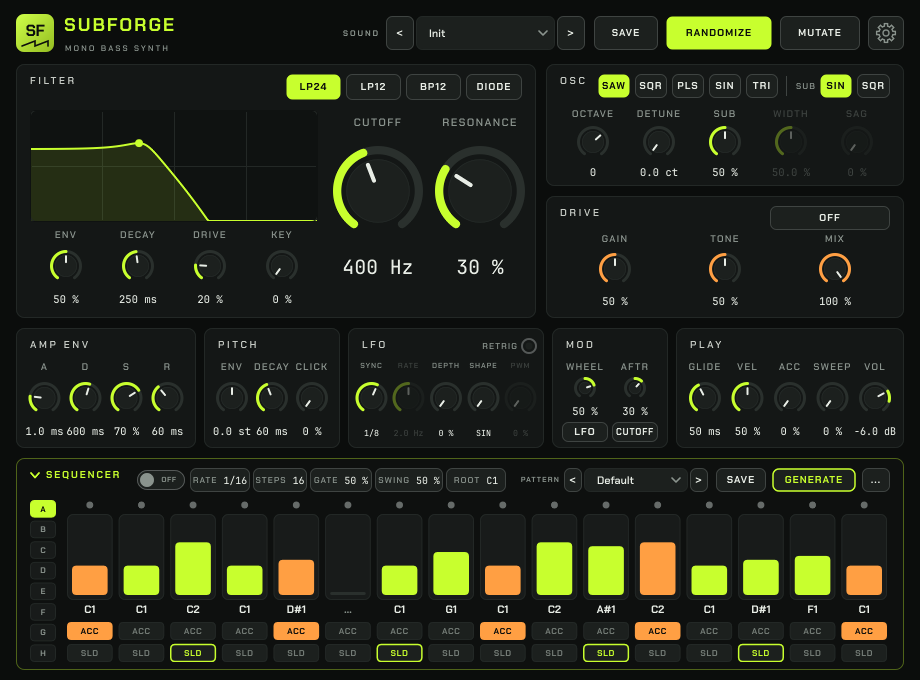
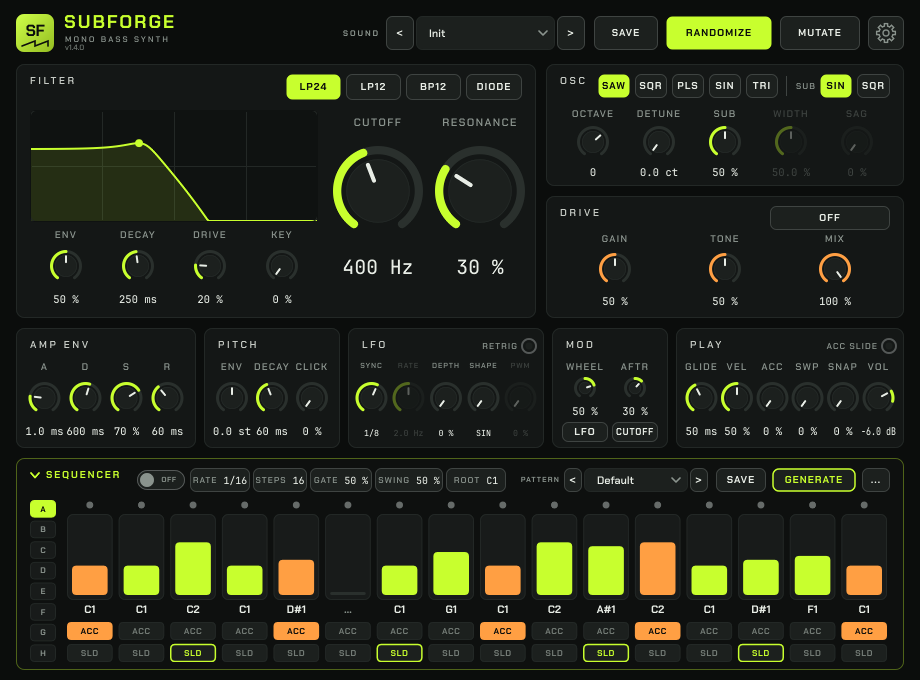
Release 1.4.0
Version 1.4.0, and the Unreleased entries of CHANGELOG.md move to 1.4.0 with
the entries for Accent Snap, Accent on Slide and the five new presets. README
describes Accent Snap and Accent on Slide and has a new screenshot. CI builds
test_midi_filename too: tests/CMakeLists.txt registers it with ctest, but the
workflow listed the test targets by hand and left it out.

Changed region(s): [[0.7304, 0.4941, 0.9739, 0.6485], [0.0609, 0.0, 0.1826, 0.0926]]

diff --git a/CHANGELOG.md b/CHANGELOG.md
@@ -10,7 +10,33 @@ tag the commit (`vX.Y.Z`).
 
 ## [Unreleased]
 
+## [1.4.0] – 2026-11-14
+
+### Added
+- **Accent Snap.** A new Snap knob in the PLAY panel gives accents a sharper
+  sound: the accented note's filter sweep falls much faster and gets a quick
+  upward bite that grows with Resonance, while notes without accent keep
+  ringing longer, so the accents stand out. At the same time the build-up of
+  Sweep between accents lets go sooner. At 0 % nothing changes, so existing
+  projects and presets sound exactly as before.
+- **Accent on Slide.** A new ACC SLIDE switch in the PLAY panel. Normally the
+  accent of a step that is slid into is ignored, because the note keeps
+  gliding without a new attack. With ACC SLIDE on, that accent lifts the
+  running filter sweep and the volume without retriggering the note, and
+  fades in smoothly so nothing clicks. Snap applies to it too. Off by default,
+  so existing projects and presets sound exactly as before.
+- **Five new sound presets and five patterns of the same name** that show off
+  Snap and ACC SLIDE (Snap Bite, Glide Lift, Rising Sweep, Snap Glide and
+  Half Snap), added last in both lists. Sound presets now include Snap and
+  ACC SLIDE; presets that need them require 1.4.0 or later to sound as
+  intended. Randomize and Mutate leave Snap and ACC SLIDE as they are.
+
 ### Changed
+- The Sweep knob in the PLAY panel is labelled Swp, to make room for Snap.
+- The version number is shown, small, under the logo, and the About panel has a
+  new look: a small panel with the version, the author and two links, and a
+  Licences button for the third-party notices. The project link now points to
+  music.henrikjuhl.dk/plugins/subforge.
 - Slots can now be dragged straight into the DAW on Linux too (tested in Bitwig
   and REAPER, as CLAP and VST®3). Exported MIDI files get a plain file name
   without spaces: `SubForge-B-Chicago-Jack.mid`, with æ, ø and å written as ae,
@@ -218,7 +244,8 @@ First public release, as free software under the GNU AGPLv3.
 
 VST is a registered trademark of Steinberg Media Technologies GmbH.
 
-[Unreleased]: https://github.com/travisdk/SubForge/compare/v1.3.0...HEAD
+[Unreleased]: https://github.com/travisdk/SubForge/compare/v1.4.0...HEAD
+[1.4.0]: https://github.com/travisdk/SubForge/compare/v1.3.0...v1.4.0
 [1.3.0]: https://github.com/travisdk/SubForge/compare/v1.2.2...v1.3.0
 [1.2.2]: https://github.com/travisdk/SubForge/compare/v1.2.1...v1.2.2
 [1.2.1]: https://github.com/travisdk/SubForge/compare/v1.2.0...v1.2.1

diff --git a/README.md b/README.md
@@ -40,8 +40,8 @@ https://github.com/user-attachments/assets/3b5655d9-1d9e-4a71-944f-db04779f6a4d
   distortion, fuzz, tube amp) and 4x oversampling.
 - 16-step sequencer with pitch, accent and slide per step, synced to the
   host's tempo, and eight pattern slots you switch with automation or MIDI
-  notes.
-- 115 sound presets and 62 patterns, plus your own presets and patterns.
+  notes. Accent Snap and Accent on Slide shape how accents sound.
+- 120 sound presets and 67 patterns, plus your own presets and patterns.
 - Vector interface that scales from 75 % to 200 %.
 
 ### Square wave shaping
@@ -54,6 +54,24 @@ The picture shows Width 45 % with Sag at 0, 50 and 100 % (grey: the plain
 square). `SubForge_WaveShapes` draws it.
 
 ![The square wave at Width 45 % with Sag 0, 50 and 100 %](docs/images/square-shaping.png)
+
+### Accent Snap and Accent on Slide
+
+Two controls in the PLAY panel shape accents, and both are off by default, so
+existing projects and presets sound exactly as before.
+
+**Snap** makes accents sharper: the accented note's filter sweep falls quickly
+and gets a short upward bite (more with higher Resonance), while notes without
+accent ring longer. It also shortens the build-up of **Swp** (Sweep) between
+accents.
+
+**ACC SLIDE** (the switch in the PLAY title row) lets an accent count on a
+step you slide into. Without it that accent is ignored, because the note keeps
+gliding without a new attack. With it on, the accent lifts the running filter
+sweep and the volume, fading in smoothly with no click. A slide to the same
+note holds one long note, so there the accent has no effect.
+
+Randomize and Mutate leave both as they are.
 
 See [CHANGELOG.md](CHANGELOG.md) for the full list.
 
